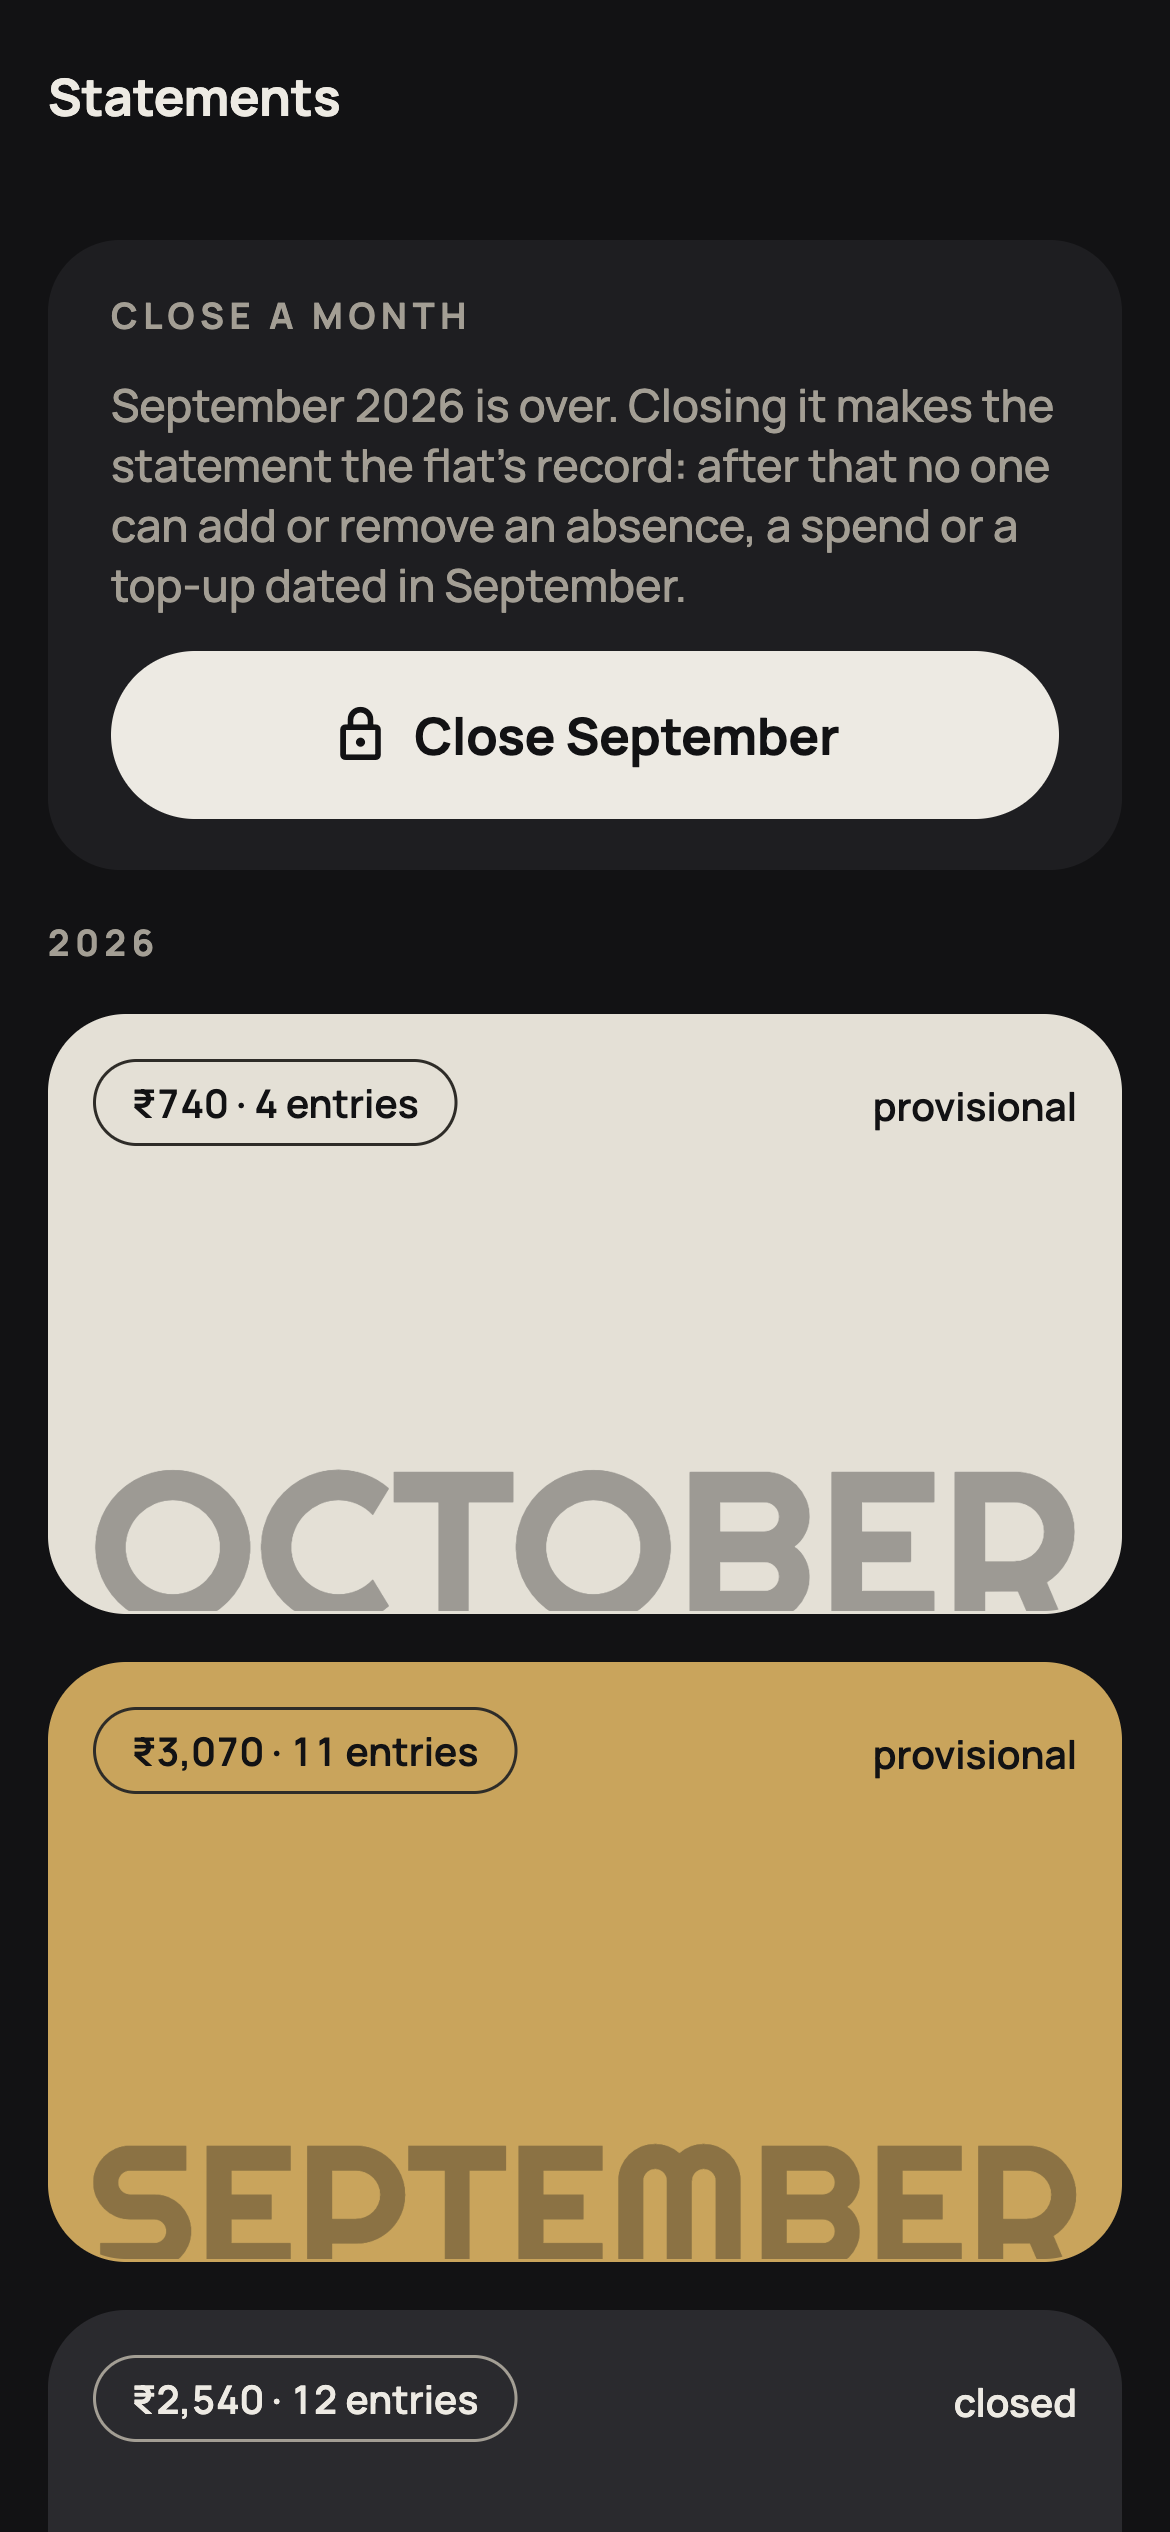
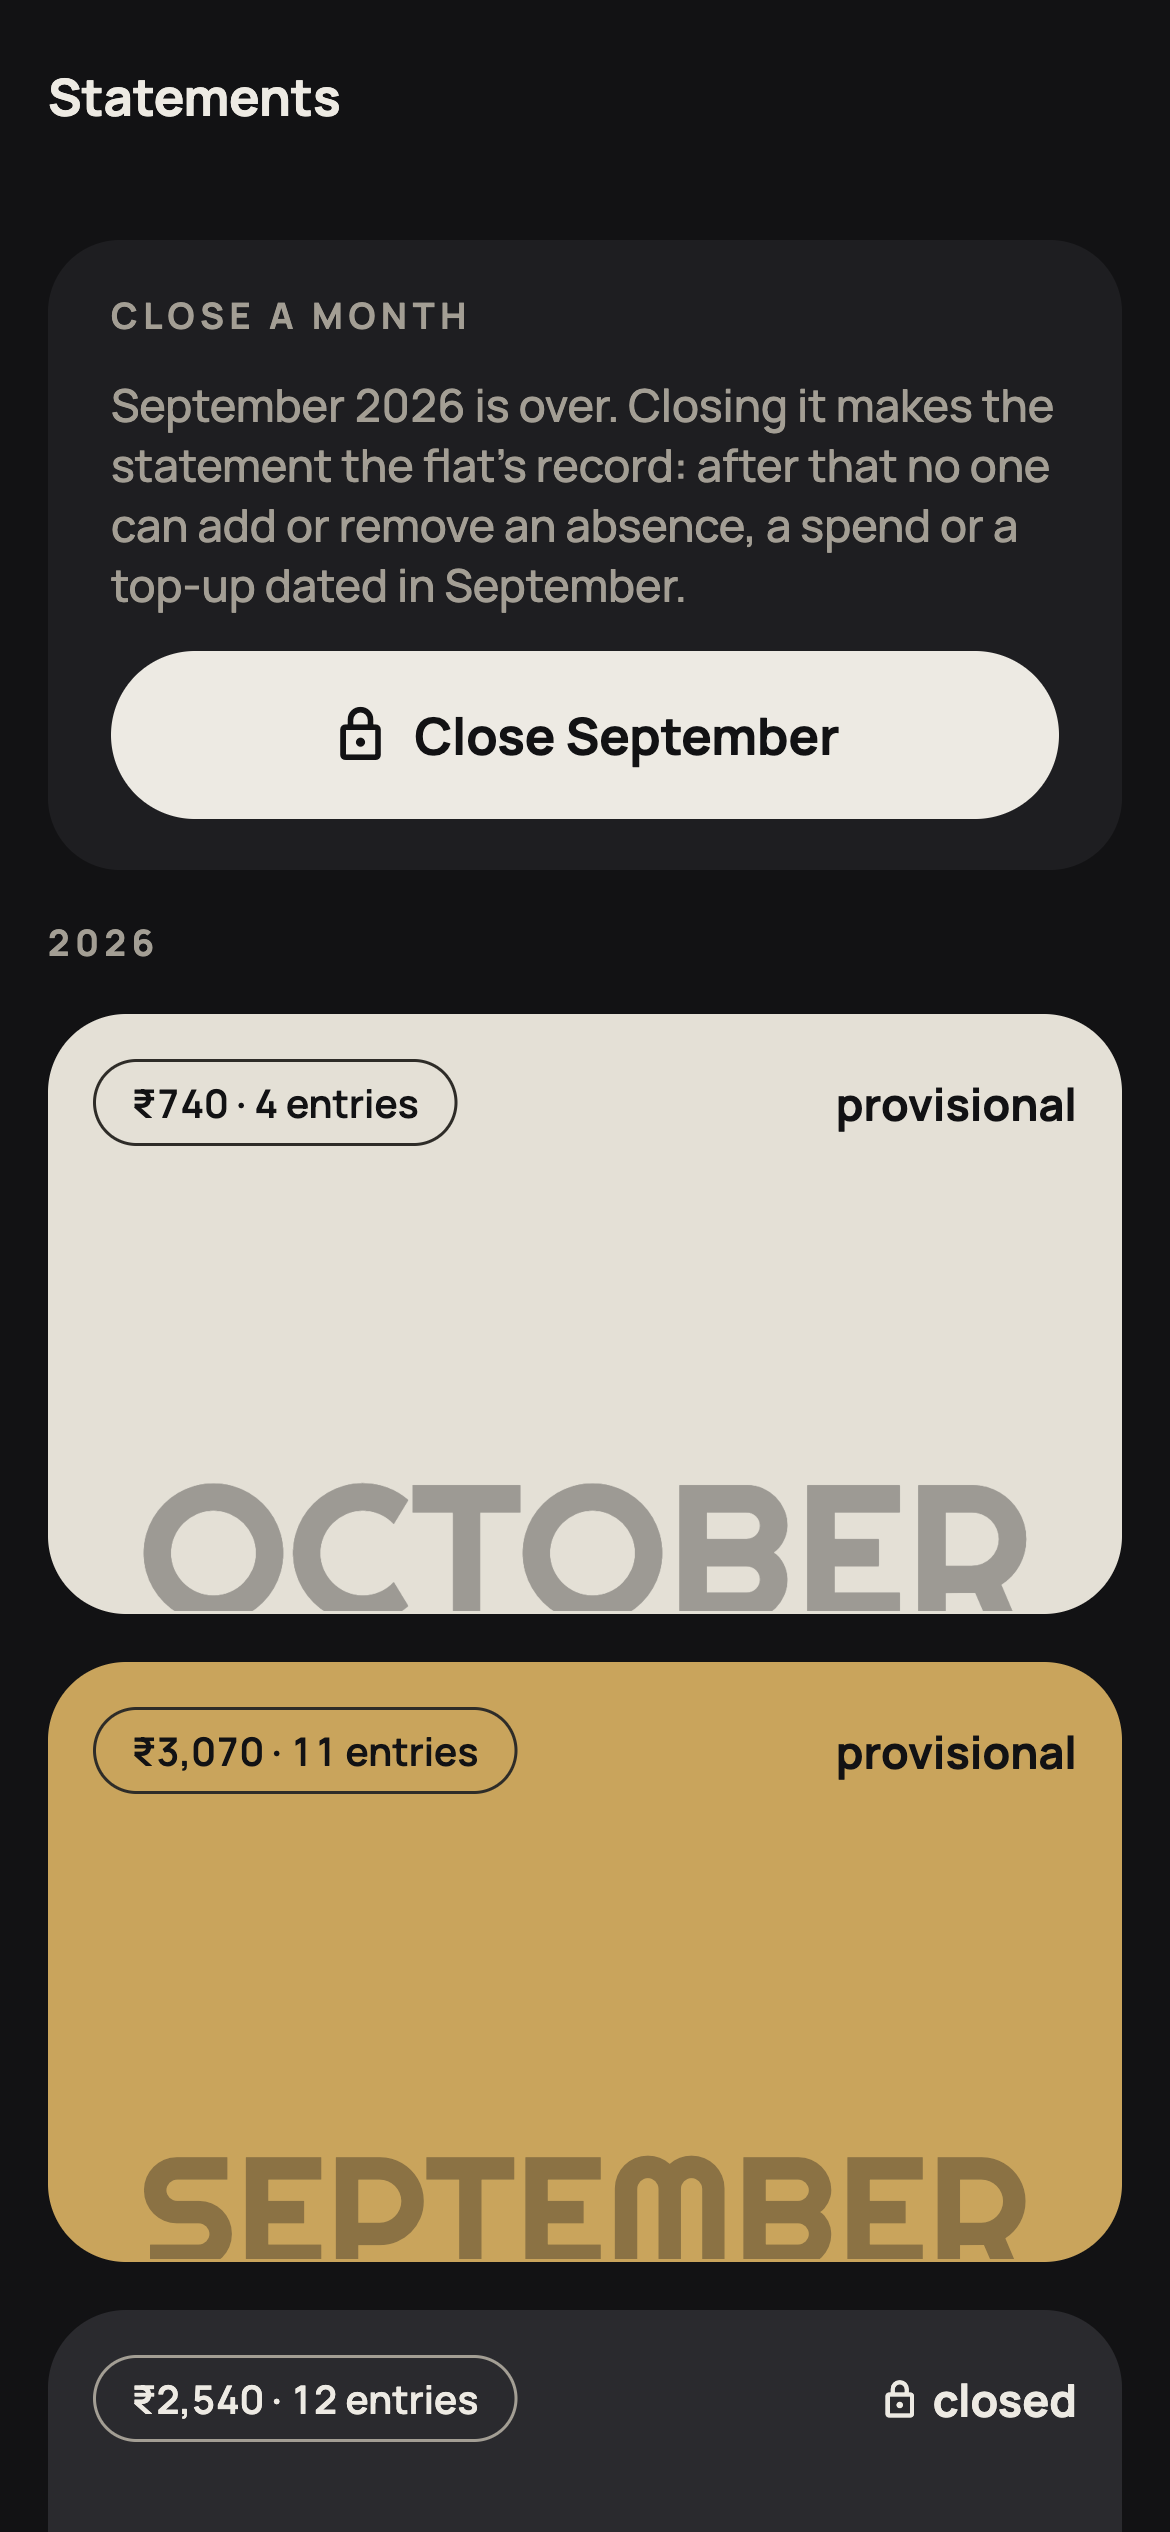
M5 close: the confirm's verb, and the screenshots retaken
window.confirm's button is always OK, so the action verb now goes into
the text the browser does show. The call sites pass the full verb
("Close September", "Reopen September") rather than the bare one.

Screenshots retaken against the local stack (390x844, dark and light):
every month card changed (lock + 15/700 status, light-mode outline on
the raised card, the month name clearing the corner arcs), the Zepto /
Local tiles share one fill, and Reopen is a pill. The away pair is
renamed: a closed month no longer shows Remove, so there is no refusal
to shoot -- the row carries a "closed" marker instead.

diff --git a/src/app/statement/[month].tsx b/src/app/statement/[month].tsx
@@ -268,7 +268,7 @@ function Reopen({ month, householdId, onReopened }: { month: string; householdId
         outline
         disabled={busy}
         onPress={async () => {
-          if (!(await confirm(`Reopen ${full}?`, `Absences, spends and top-ups dated in ${monthName(month)} can be added and removed again, so shares everyone has already settled up on can change.`, 'Reopen'))) return;
+          if (!(await confirm(`Reopen ${full}?`, `Absences, spends and top-ups dated in ${monthName(month)} can be added and removed again, so shares everyone has already settled up on can change.`, `Reopen ${monthName(month)}`))) return;
           setBusy(true);
           setError(null);
           const { error } = await supabase.rpc('reopen_month', { p_household_id: householdId, p_month: month });

diff --git a/src/app/statement.tsx b/src/app/statement.tsx
@@ -56,7 +56,7 @@ function CloseMonth({ month, householdId, onClosed }: { month: string; household
     const ok = await confirm(
       `Close ${full}?`,
       `Absences, spends and top-ups dated in ${short} can no longer be added or removed, so everyone's share is final.\n\nReversing an entry still works, and you can reopen the month.`,
-      'Close',
+      `Close ${short}`,
     );
     if (!ok) return;
     setBusy(true);
